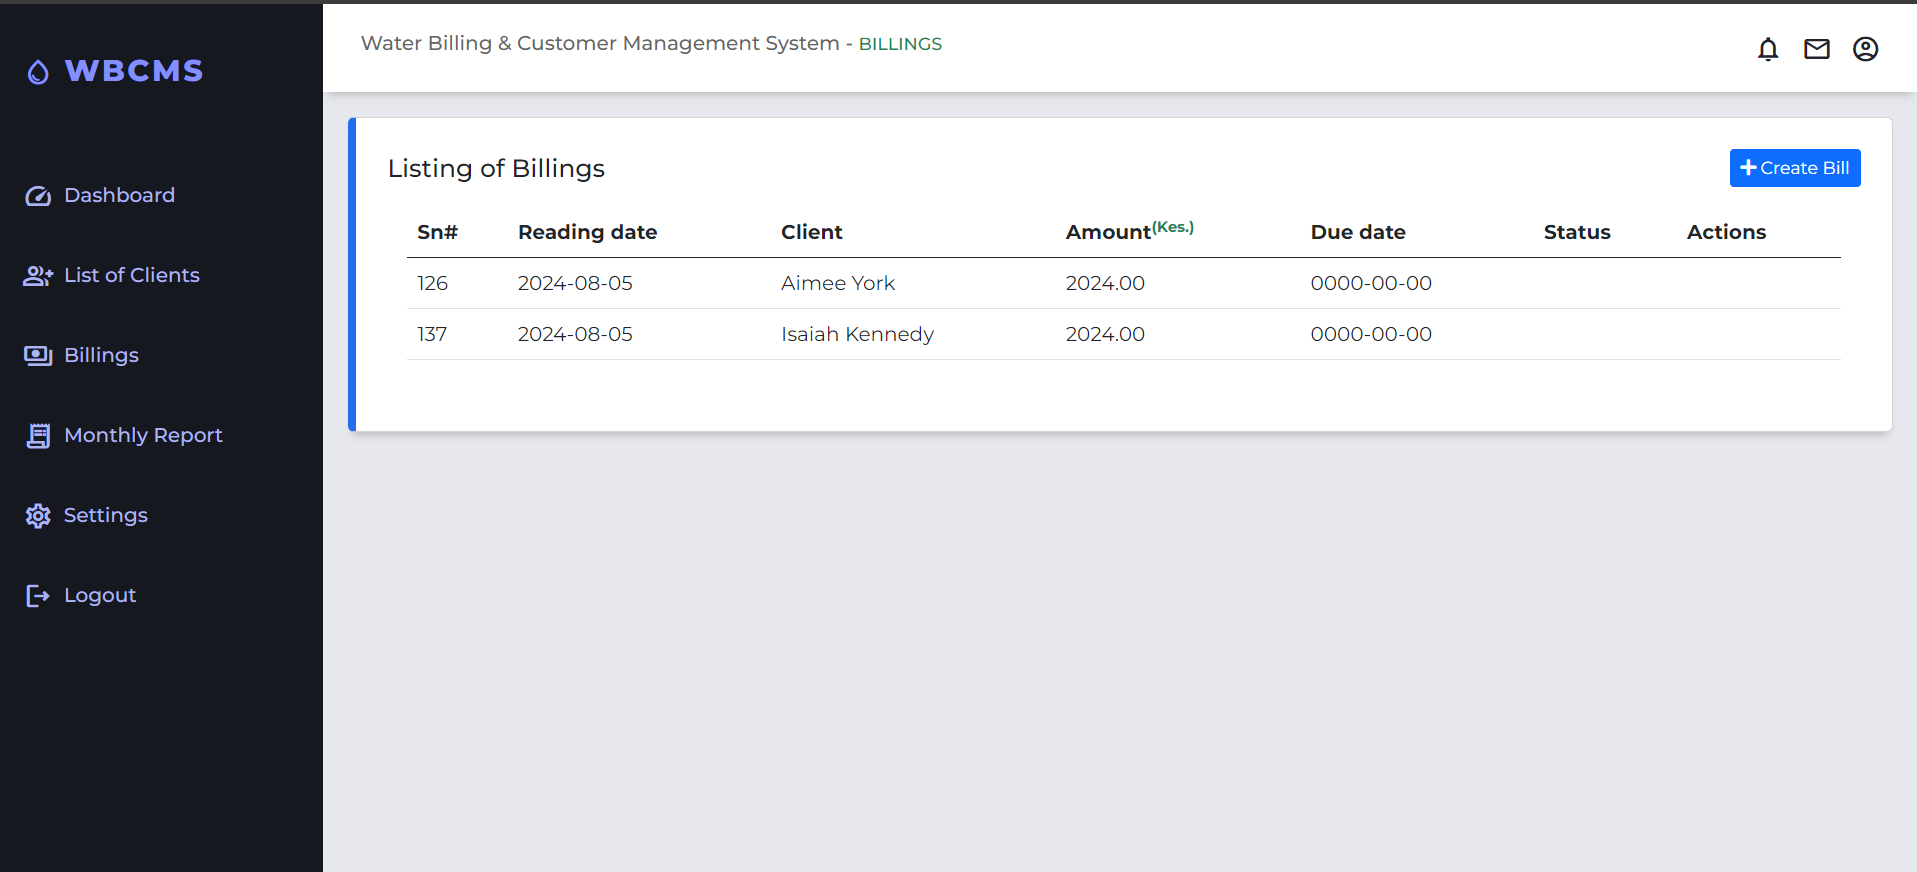
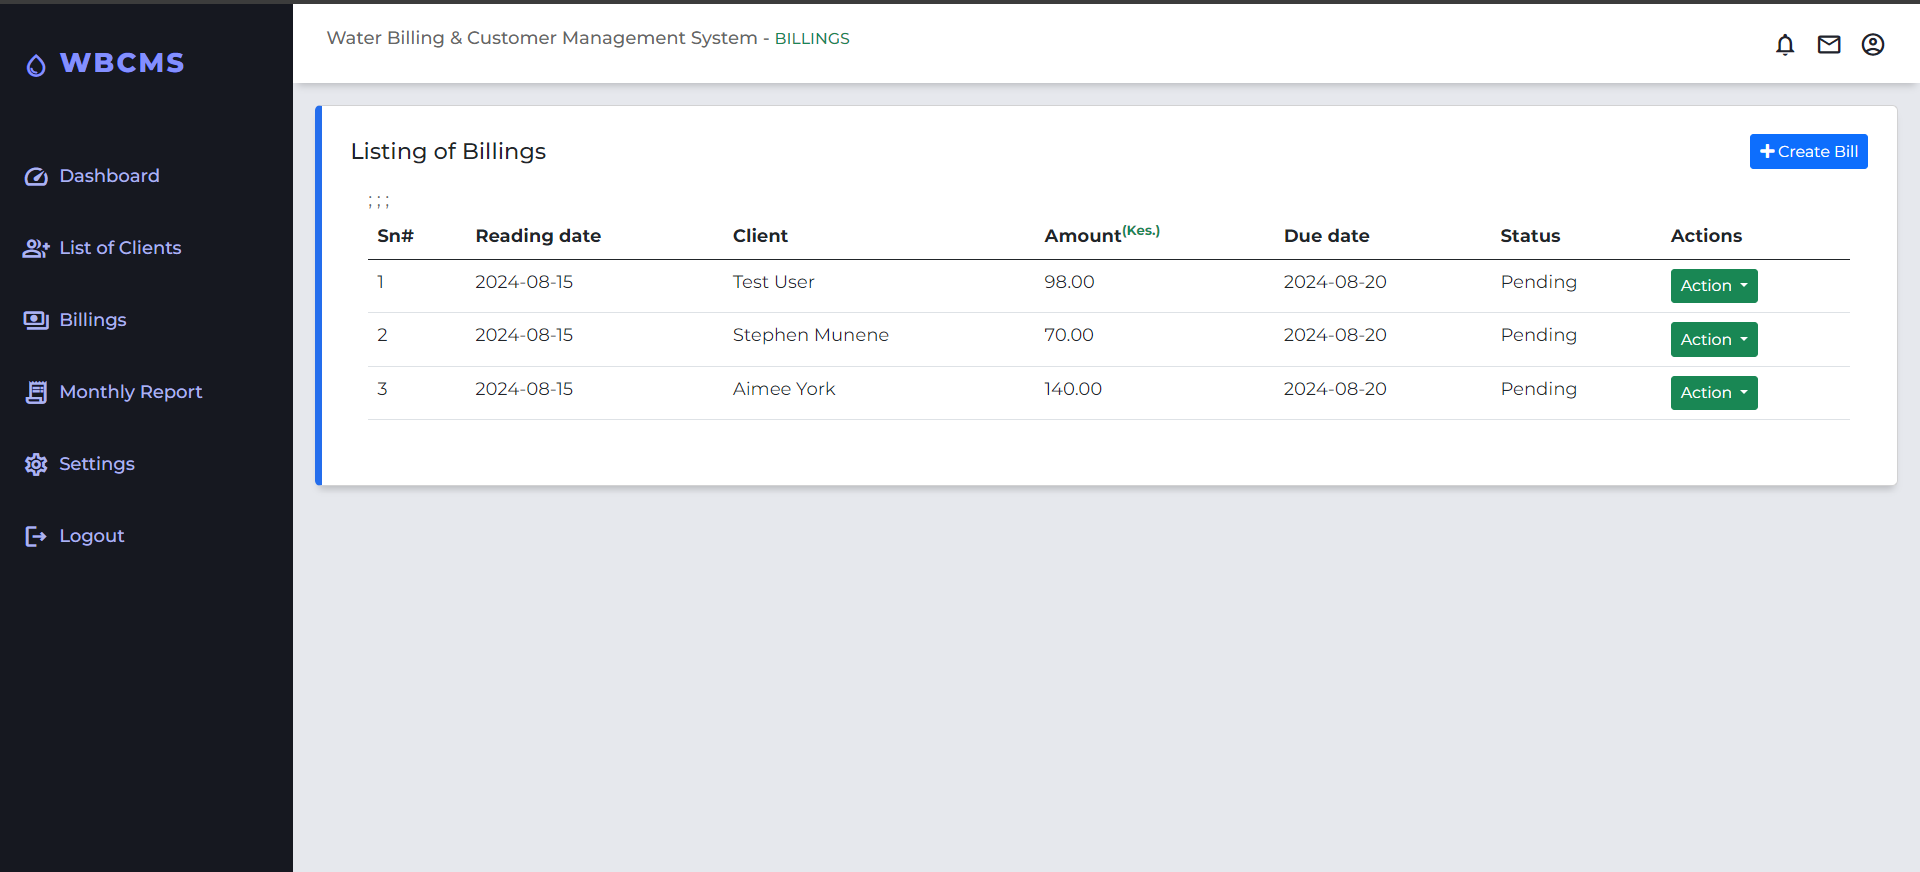
billing

diff --git a/billings.php b/billings.php
@@ -206,9 +206,9 @@ try {
                     </td>
                   </tr>
                 <?php else: ?>
-                  <?php foreach ($billedClients as $client): ?>
+                  <?php foreach ($billedClients as $index => $client): ?>
                     <tr>
-                      <td><?php echo htmlspecialchars($client['user_id']); ?></td>
+                      <td><?php echo htmlspecialchars($index + 1); ?></td>;                      
                       <td><?php echo htmlspecialchars($client['reading_date']); ?></td>
                       <td><?php echo htmlspecialchars($client['client_name']); ?></td>
                       <td><?php echo htmlspecialchars($client['total']); ?></td>
